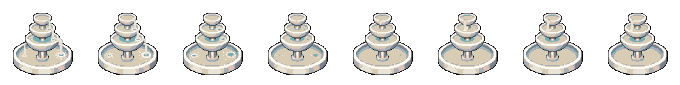
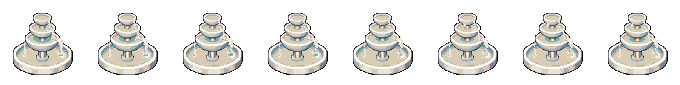
fix(carte): seule l'eau des fontaines bouge, la margelle ne frissonne plus
Retour Raph : « je vois des pixels de la fontaine qui ne devraient pas bouger ».
Il a raison, et mon « au bit près » ne valait que HORS du masque — c'est le
masque lui-même qui était trop large. Mesuré sur les cinq bandes livrées : selon
l'ère, 53 à 67 % des pixels animés étaient de la PIERRE.

Ce qui tranche est la PALETTE, et pas un réglage à l'œil. Ces sprites passent
tous par remapPalette, donc leurs couleurs sont quantifiées : l'eau y occupe
b − r = 52, 67 et 73, les gris FROIDS de margelle et d'ombre 10, 14, 15 et 16.
Un trou de 36 sépare les deux familles. Mon premier seuil (12) tombait dans la
queue de la mauvaise grappe ; à 40 on est dans le creux, et la marge est telle
qu'aucun réglage fin n'est nécessaire.

Deux fausses pistes écartées en chemin, pour qu'on ne les reprenne pas :

  · l'AMPLITUDE ne sépare rien. Médianes de déviation eau contre pierre : 103 et
    80 sur l'antique, 79 et 74 sur la cosmique. La pierre redessinée bouge
    autant que l'eau.

  · la dilatation d'un pixel — celle qui empêche le bord de l'eau de clignoter —
    rendait à elle seule un liseré de margelle animé tout autour du bassin. Le
    remède réintroduisait le défaut. Elle refuse maintenant deux choses
    nommément : un pixel CHAUD (pierre éclairée) et un pixel très SOMBRE (trait
    de contour, c'est lui qui fait onduler la silhouette).

scripts/plazaAnimMask.mjs fait le travail sur les bandes DÉJÀ ÉCRITES — aucun
[…]

diff --git a/src/game/map/iso/__tests__/isoPlaza.test.js b/src/game/map/iso/__tests__/isoPlaza.test.js
@@ -649,6 +649,61 @@ describe("BANDES D'EAU ANIMÉE", () => {
     }
   });
 
+  it("SEULE L'EAU bouge : aucun pixel de pierre n'est animé", async () => {
+    // Retour Raph 2026-07-30 : « je vois des pixels de la fontaine qui ne
+    // devraient pas bouger ». PixelLab n'anime pas que l'eau, il REDESSINE
+    // l'objet — margelle, arêtes, contour. Figer « tout ce qui ne bouge pas » ne
+    // suffit donc pas : cette pierre-là bouge pour de bon.
+    //
+    // Ce qui tranche est la PALETTE, qui est quantifiée (tous ces sprites
+    // passent par remapPalette) : relevé sur les cinq fontaines, l'eau vit à
+    // b − r = 52, 67 et 73, les gris FROIDS de pierre et d'ombre à 10, 14, 15 et
+    // 16. Un trou de 36 sépare les deux familles, et le seuil se pose dedans.
+    // ⚠ C'est bien un seuil de PALETTE, pas un réglage à l'œil : mon premier
+    // essai à 12 tombait dans la queue de la grappe pierre, et 53 à 67 % des
+    // pixels animés étaient de la margelle.
+    if (!fs.existsSync(ANIM)) return;
+    const { PNG } = await import("pngjs");
+    const BLEU = 40;
+    for (const f of fs.readdirSync(ANIM).filter((x) => x.endsWith(".png"))) {
+      const st = PNG.sync.read(fs.readFileSync(path.join(STAT, f)));
+      const sp = PNG.sync.read(fs.readFileSync(path.join(ANIM, f)));
+      const { width: w, height: h } = st;
+      const N = Math.round(sp.width / w);
+      const fautes = [];
+      for (let y = 0; y < h; y += 1) {
+        for (let x = 0; x < w; x += 1) {
+          const s = (y * w + x) * 4;
+          let bouge = false, eau = st.data[s + 3] >= 128 && st.data[s + 2] - st.data[s] >= BLEU;
+          for (let i = 0; i < N; i += 1) {
+            const d = (y * sp.width + i * w + x) * 4;
+            for (let c = 0; c < 4; c += 1) if (sp.data[d + c] !== st.data[s + c]) { bouge = true; break; }
+            if (sp.data[d + 3] >= 128 && sp.data[d + 2] - sp.data[d] >= BLEU) eau = true;
+          }
+          // Tolérance d'UN pixel autour de l'eau : le bord alterne eau/pierre
+          // d'une frame à l'autre et clignoterait s'il était coupé net.
+          if (!bouge || eau) continue;
+          let voisine = false;
+          for (let dy = -1; dy <= 1 && !voisine; dy += 1) {
+            for (let dx = -1; dx <= 1 && !voisine; dx += 1) {
+              const nx = x + dx, ny = y + dy;
+              if (nx < 0 || ny < 0 || nx >= w || ny >= h) continue;
+              const t = (ny * w + nx) * 4;
+              if (st.data[t + 3] >= 128 && st.data[t + 2] - st.data[t] >= BLEU) { voisine = true; break; }
+              for (let i = 0; i < N && !voisine; i += 1) {
+                const d = (ny * sp.width + i * w + nx) * 4;
+                if (sp.data[d + 3] >= 128 && sp.data[d + 2] - sp.data[d] >= BLEU) voisine = true;
+              }
+            }
+          }
+          if (!voisine) fautes.push(`${x},${y}`);
+        }
+      }
+      expect(fautes, `${f} : ${fautes.length} px de PIERRE animés (${fautes.slice(0, 6).join(" ")})`)
+        .toHaveLength(0);
+    }
+  });
+
   it("aucune frame n'est identique au sprite statique", async () => {
     // PixelLab rend la frame 0 d'une anim v3 comme frame de RÉFÉRENCE : elle
     // reproduit le sprite d'origine. Gardée dans la boucle, l'eau se FIGE une

diff --git a/src/game/map/iso/isoRenderer.js b/src/game/map/iso/isoRenderer.js
@@ -67,7 +67,7 @@ const PLAZA = [214, 206, 182];       // dallage d'esplanade (repli, toutes ères
 // n'est plus blittée : sans lui, une place changeait de couleur en dézoomant.
 // Clé absente : on garde PLAZA.
 const PLAZA_ERA_TONE = {
-  antique: [219, 204, 185], medieval: [112, 115, 119], industrial: [51, 52, 55],
+  antique: [219, 204, 185], medieval: [112, 115, 119], industrial: [89, 91, 97],
   modern: [190, 194, 197], cosmic: [233, 223, 211],
 };
 // Bas-fond CLAIR le long des rives (drawIsoRiver) : 3 bandes CLAIR (bord) → profond
